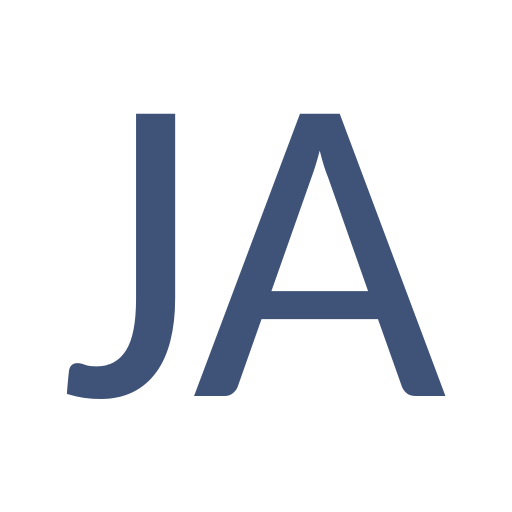
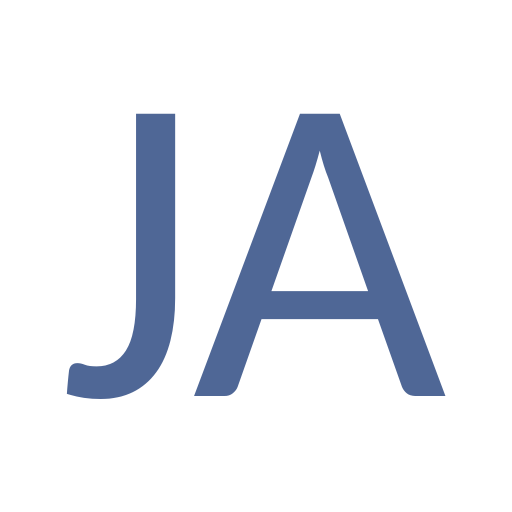
Updated coloring again

Changed region(s): [[0.375, 0.2188, 0.875, 0.7812], [0.125, 0.2188, 0.3438, 0.7812]]

diff --git a/src/styles/Intro.css b/src/styles/Intro.css
@@ -6,7 +6,7 @@
     align-items: center;
     text-align: center;
     background: #f9f9f9;
-    color: #3f5277;
+    color: #4f6796;
     font-size: 2rem;
   }
   
